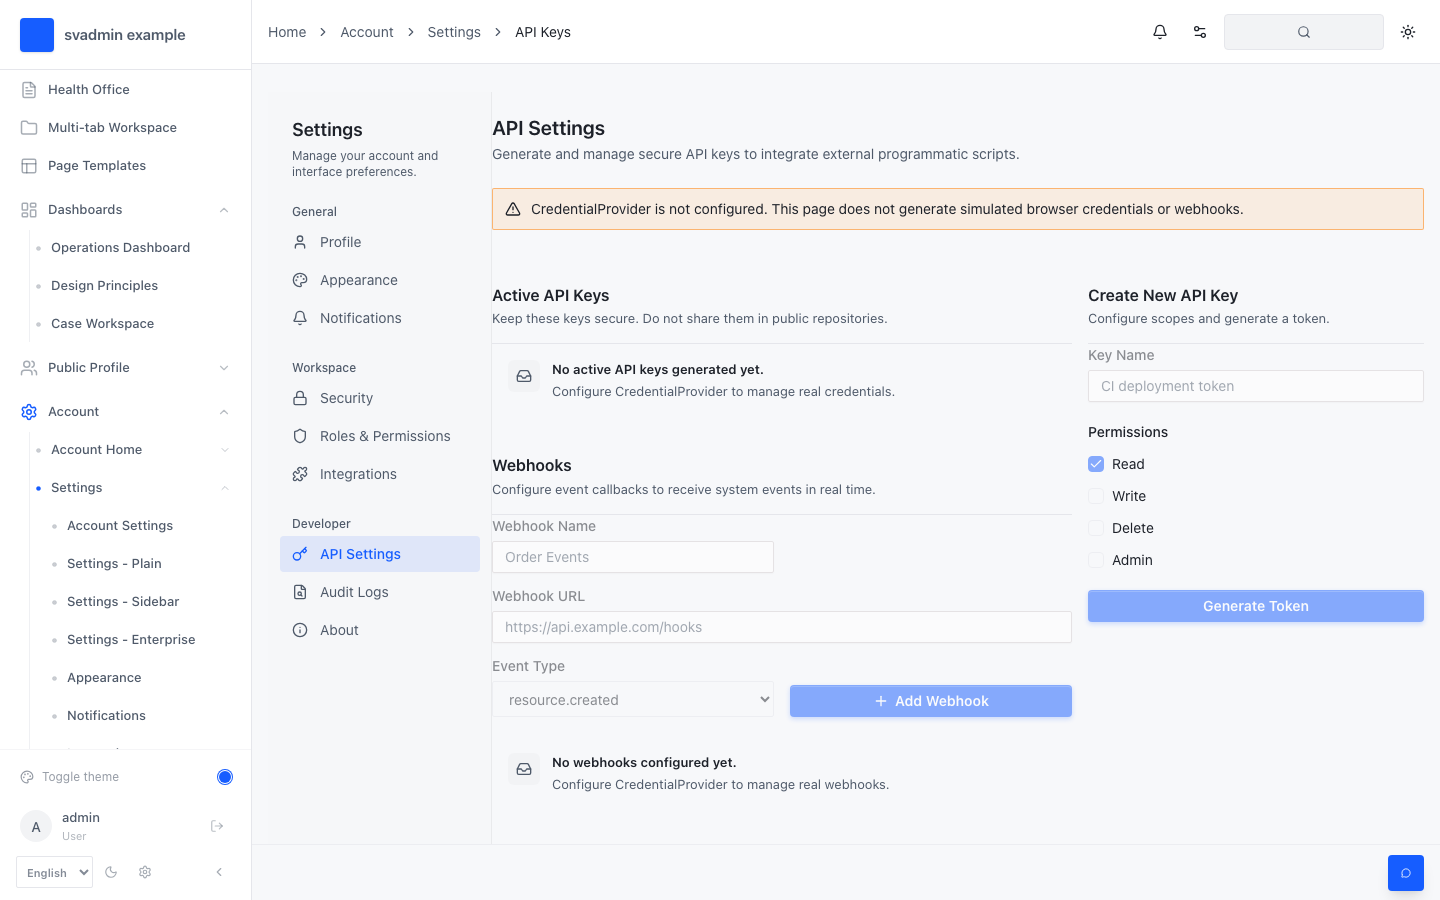
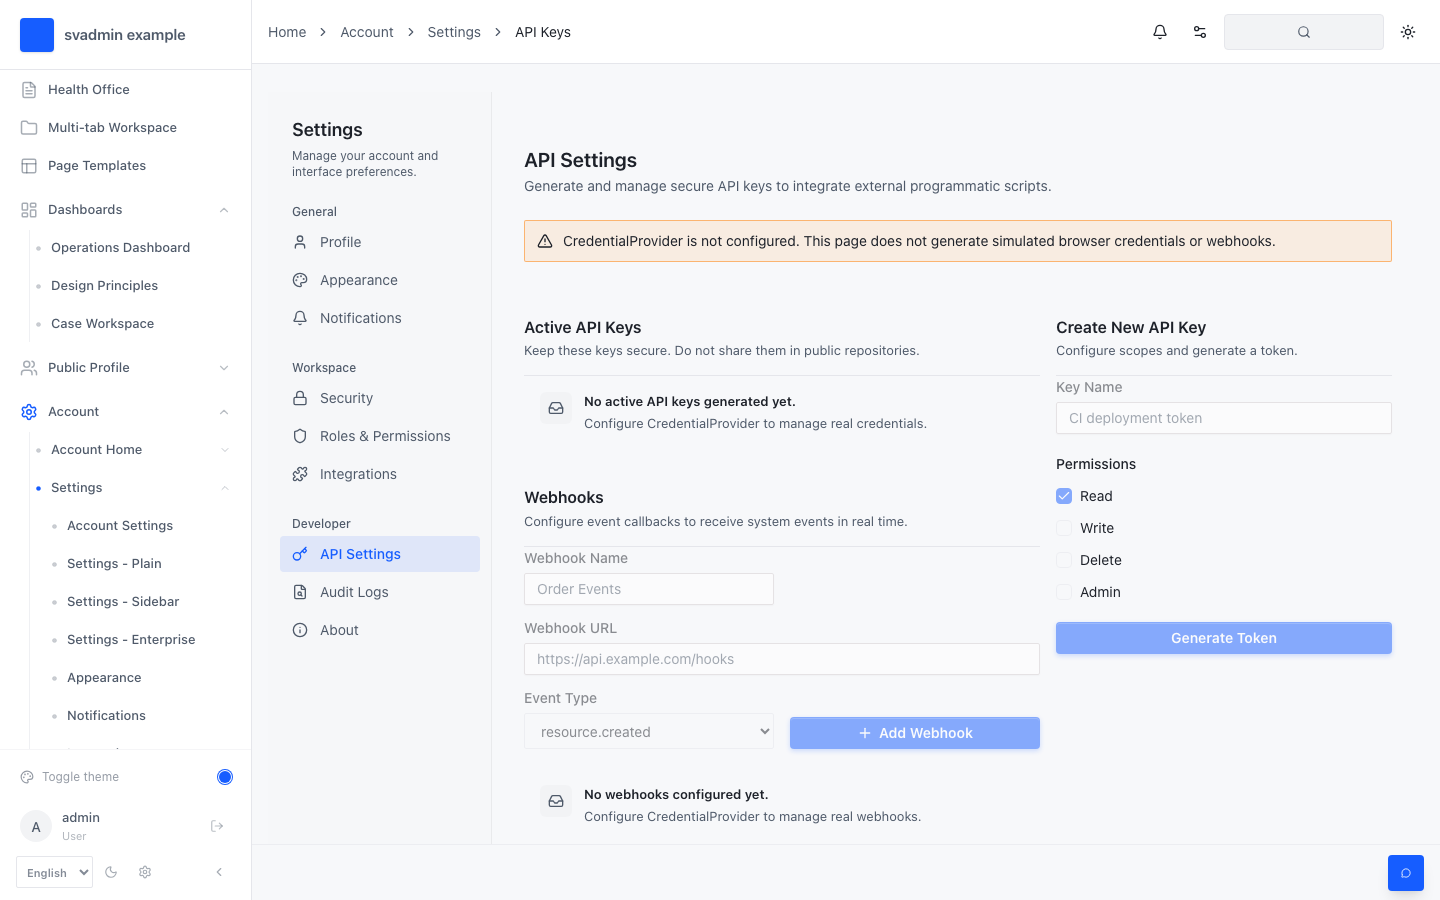
fix(ui): keep layout styles in token contract (#608)
* fix(ui): keep layout styles in token contract

* docs(ui): refresh token-bound layout evidence

---------

Changed region(s): [[0.3438, 0.1244, 1.0, 0.4978], [0.3438, 0.4978, 0.625, 0.9333], [0.5312, 0.4667, 1.0, 0.84]]

diff --git a/packages/ui/src/app.css b/packages/ui/src/app.css
@@ -4,6 +4,59 @@
 @import "./app-shell.css";
 @import "./data-panel.css";
 
+/* 侧栏与设置页布局使用独立契约，避免宿主通用 utility 覆盖响应式状态。 */
+@layer components {
+  .svadmin-layout__desktop-sidebar {
+    display: none;
+  }
+  @media (min-width: 768px) {
+    .svadmin-layout__desktop-sidebar {
+      display: block;
+    }
+  }
+
+  .svadmin-settings-layout {
+    --svadmin-settings-nav-width: 14rem;
+    display: flex;
+    flex-direction: column;
+    gap: 0;
+    min-height: 100%;
+  }
+  .svadmin-settings-layout__nav {
+    width: 100%;
+    flex-shrink: 0;
+  }
+  .svadmin-settings-layout__mobile-nav {
+    display: flex;
+  }
+  .svadmin-settings-layout__desktop-nav {
+    display: none;
+  }
+  .svadmin-settings-layout__content {
+    min-width: 0;
+    width: 100%;
+    flex: 1 1 0%;
+    padding: var(--svadmin-space-5);
+  }
+  @media (min-width: 1024px) {
+    .svadmin-settings-layout {
+      flex-direction: row;
+    }
+    .svadmin-settings-layout__nav {
+      width: var(--svadmin-settings-nav-width);
+    }
+    .svadmin-settings-layout__mobile-nav {
+      display: none;
+    }
+    .svadmin-settings-layout__desktop-nav {
+      display: block;
+    }
+    .svadmin-settings-layout__content {
+      padding: var(--svadmin-space-6);
+    }
+  }
+}
+
 /* 保留状态对比度和 clean-flat 卡片表现，颜色始终来自宿主 token。 */
 .svadmin-product-status[data-slot="badge"] {
   background: var(--muted);

diff --git a/packages/ui/src/page-chrome.css b/packages/ui/src/page-chrome.css
@@ -1,54 +1,4 @@
 @layer components {
-  /* 侧栏显隐使用独立契约，避免宿主的通用 hidden 规则覆盖桌面断点。 */
-  .svadmin-layout__desktop-sidebar {
-    display: none;
-  }
-  @media (min-width: 768px) {
-    .svadmin-layout__desktop-sidebar {
-      display: block;
-    }
-  }
-
-  .svadmin-settings-layout {
-    display: flex;
-    flex-direction: column;
-    gap: 0;
-    min-height: 100%;
-  }
-  .svadmin-settings-layout__nav {
-    width: 100%;
-    flex-shrink: 0;
-  }
-  .svadmin-settings-layout__mobile-nav {
-    display: flex;
-  }
-  .svadmin-settings-layout__desktop-nav {
-    display: none;
-  }
-  .svadmin-settings-layout__content {
-    min-width: 0;
-    width: 100%;
-    flex: 1 1 0%;
-    padding: var(--svadmin-space-6);
-  }
-  @media (min-width: 1024px) {
-    .svadmin-settings-layout {
-      flex-direction: row;
-    }
-    .svadmin-settings-layout__nav {
-      width: 14rem;
-    }
-    .svadmin-settings-layout__mobile-nav {
-      display: none;
-    }
-    .svadmin-settings-layout__desktop-nav {
-      display: block;
-    }
-    .svadmin-settings-layout__content {
-      padding: var(--svadmin-space-8);
-    }
-  }
-
   /*
    * The skip link uses a generated translate-y utility, whose composite
    * translate declaration is invalid when no x-axis value is present.
